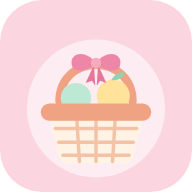
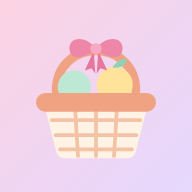
Cabezal centrado con más espacio arriba, nube solo ícono, íconos sin marco y sin teclado al agregar
- Más margen superior en la barra y contenido centrado con el logo más grande
- Botón de lista compartida solo con la nube y el punto de estado
- Logo del cabezal sin recuadro blanco; íconos de pantalla de inicio a sangre completa
- El teclado se cierra al agregar y ya no se abre solo con los toques rápidos
- Fecha que se acorta sola en pantallas angostas

Claude-Session: https://claude.ai/code/session_013ZPp3nXaXtcw42Knkq7VuM

diff --git a/index.html b/index.html
@@ -5,8 +5,8 @@
 <meta name="viewport" content="width=device-width, initial-scale=1, viewport-fit=cover">
 <title>Mi Canastita</title>
 <meta name="description" content="Lista de compras simple con íconos que cambian según el producto.">
-<meta name="theme-color" content="#FBD6E1" media="(prefers-color-scheme: light)">
-<meta name="theme-color" content="#4A2E3E" media="(prefers-color-scheme: dark)">
+<meta name="theme-color" content="#FFF7FA" media="(prefers-color-scheme: light)">
+<meta name="theme-color" content="#1E151C" media="(prefers-color-scheme: dark)">
 <link rel="manifest" href="manifest.webmanifest">
 <link rel="icon" href="icons/favicon.svg" type="image/svg+xml">
 <link rel="apple-touch-icon" href="icons/apple-touch-icon.png">
@@ -117,18 +117,19 @@ svg{display:block}
 /* ---------- Barra superior ---------- */
 .bar{position:sticky;top:env(safe-area-inset-top,0px);z-index:15;background:var(--glass-bar);
   -webkit-backdrop-filter:blur(16px) saturate(1.3);backdrop-filter:blur(16px) saturate(1.3);
-  border-bottom:1px solid var(--glass-line);padding-block:10px;
+  border-bottom:1px solid var(--glass-line);padding-block:20px 14px;
   padding-left:max(16px,env(safe-area-inset-left,0px));padding-right:max(16px,env(safe-area-inset-right,0px))}
-.bar-in{max-width:528px;margin:0 auto;display:flex;align-items:center;gap:10px}
-.logo{width:44px;height:44px;flex:none;border-radius:15px;background:var(--surface);box-shadow:var(--shadow-sm);padding:4px}
-.brand{flex:1;min-width:0}
-.brand h1{margin:0;font-family:var(--f-display);font-weight:600;font-size:1.32rem;line-height:1.05;letter-spacing:-.2px;white-space:nowrap}
-.brand p{margin:2px 0 0;color:var(--muted);font-weight:700;font-size:.8rem;white-space:nowrap;overflow:hidden;text-overflow:ellipsis}
-.chipbtn{flex:none;display:inline-flex;align-items:center;gap:6px;border:1px solid var(--line);background:var(--surface);color:var(--ink);
-  border-radius:999px;padding:7px 12px 7px 10px;font-weight:800;font-size:.8rem;box-shadow:var(--shadow-sm);transition:transform .15s}
-.chipbtn:active{transform:scale(.95)}
-.chipbtn svg{width:17px;height:17px;color:var(--accent-strong)}
-.sync i{width:8px;height:8px;border-radius:50%;background:var(--muted);flex:none}
+.bar-in{max-width:528px;margin:0 auto;display:grid;grid-template-columns:48px minmax(0,1fr) 48px;align-items:center;gap:8px}
+.brandbox{min-width:0;display:flex;align-items:center;justify-content:center;gap:10px}
+.logo{width:60px;height:60px;flex:none;filter:drop-shadow(0 6px 10px rgba(179,70,110,.18))}
+.brand{min-width:0}
+.brand h1{margin:0;font-family:var(--f-display);font-weight:600;font-size:clamp(1.25rem,5.6vw,1.5rem);line-height:1.05;letter-spacing:-.2px;white-space:nowrap}
+.brand p{margin:3px 0 0;color:var(--muted);font-weight:700;font-size:.84rem;white-space:nowrap;overflow:hidden;text-overflow:ellipsis}
+.iconbtn{position:relative;width:48px;height:48px;display:grid;place-items:center;border:1px solid var(--line);background:var(--surface);color:var(--accent-strong);
+  border-radius:16px;box-shadow:var(--shadow-sm);transition:transform .15s;padding:0}
+.iconbtn:active{transform:scale(.92)}
+.iconbtn svg{width:24px;height:24px}
+.sync i{position:absolute;top:9px;right:8px;width:11px;height:11px;border-radius:50%;background:var(--muted);border:2px solid var(--surface)}
 .sync[data-s="ok"] i{background:var(--ok)}
 .sync[data-s="busy"] i{background:var(--warn);animation:pulso 1s ease-in-out infinite}
 .sync[data-s="off"] i,.sync[data-s="err"] i{background:var(--warn)}
@@ -293,7 +294,12 @@ svg{display:block}
 <div class="app">
 <header class="bar">
   <div class="bar-in">
-    <svg class="logo" viewBox="0 0 512 512" aria-hidden="true">
+    <button class="iconbtn" id="instalar" type="button" hidden aria-label="Instalar app" title="Instalar app">
+      <svg viewBox="0 0 24 24" fill="none" stroke="currentColor" stroke-width="2.4" stroke-linecap="round" stroke-linejoin="round"><path d="M12 4v11M7 10l5 5 5-5M5 20h14"/></svg>
+    </button>
+    <span id="hueco" aria-hidden="true"></span>
+    <div class="brandbox">
+    <svg class="logo" viewBox="88 104 336 346" aria-hidden="true">
       <path d="M150 262 C150 120 362 120 362 262" fill="none" stroke="#EFA383" stroke-width="24" stroke-linecap="round"/>
       <circle cx="198" cy="252" r="44" fill="#BDE8D4"/>
       <circle cx="306" cy="246" r="48" fill="#FFE39A"/>
@@ -315,12 +321,10 @@ svg{display:block}
       <h1>Mi Canastita</h1>
       <p id="fecha">Lista de compras</p>
     </div>
-    <button class="chipbtn" id="instalar" type="button" hidden>
-      <svg viewBox="0 0 24 24" fill="none" stroke="currentColor" stroke-width="2.4" stroke-linecap="round" stroke-linejoin="round"><path d="M12 4v11M7 10l5 5 5-5M5 20h14"/></svg>Instalar
-    </button>
-    <button class="chipbtn sync" id="syncBtn" type="button" data-s="none" aria-label="Lista compartida">
+    </div>
+    <button class="iconbtn sync" id="syncBtn" type="button" data-s="none" aria-label="Lista compartida: sincronizar" title="Lista compartida">
       <svg viewBox="0 0 24 24" fill="none" stroke="currentColor" stroke-width="2.2" stroke-linecap="round" stroke-linejoin="round"><path d="M7 18h10a4 4 0 0 0 .6-7.96A6 6 0 0 0 6.2 9.2 4.5 4.5 0 0 0 7 18z"/></svg>
-      <i></i><span id="syncTxt">Sincronizar</span>
+      <i></i><span class="sr" id="syncTxt">Sincronizar</span>
     </button>
   </div>
 </header>
@@ -689,7 +693,7 @@ svg{display:block}
       it = { id:uid(), name:nm, qty:QTYS[qtyIdx], unit:unidad, done:false, doneAt:0, at:Date.now(), del:false };
       marcar(it); state.items.push(it);
     }
-    cambio(); resetForm(); nombre.focus();
+    cambio(); resetForm(); nombre.blur();
   });
   $("cancelar").addEventListener("click", function(){ resetForm(); });
 
@@ -701,7 +705,7 @@ svg{display:block}
   }).join("");
   $("chips").addEventListener("click", function(ev){
     var b = ev.target.closest(".chip"); if (!b) return;
-    nombre.value = b.dataset.n; hint.hidden = true; pintarPreview(); nombre.focus();
+    nombre.value = b.dataset.n; hint.hidden = true; pintarPreview();
   });
 
   /* ===== Lista ===== */
@@ -771,7 +775,7 @@ svg{display:block}
       form.classList.add("editing"); $("addTxt").textContent = "Guardar cambios";
       $("formTitle").textContent = "Editando producto"; $("cancelar").hidden = false;
       pintarCantidad(); pintarUnidad(); pintarPreview();
-      form.scrollIntoView({ behavior:"smooth", block:"start" }); nombre.focus({ preventScroll:true });
+      form.scrollIntoView({ behavior:"smooth", block:"start" });
     }
   }
   $("pendientes").addEventListener("click", alClick);
@@ -822,13 +826,22 @@ svg{display:block}
   });
 
   /* Fecha de hoy bajo el título */
-  try {
-    var f = new Date().toLocaleDateString("es-PE", { weekday:"long", day:"numeric", month:"long" });
-    $("fecha").textContent = f.charAt(0).toUpperCase() + f.slice(1);
-  } catch(e) {}
+  function pintarFecha(){
+    try {
+      var el = $("fecha"), hoy = new Date();
+      var formatos = [{ weekday:"long", day:"numeric", month:"long" }, { weekday:"short", day:"numeric", month:"long" }, { weekday:"short", day:"numeric", month:"short" }];
+      for (var i = 0; i < formatos.length; i++){
+        var f = hoy.toLocaleDateString("es-PE", formatos[i]);
+        el.textContent = f.charAt(0).toUpperCase() + f.slice(1);
+        if (el.scrollWidth <= el.clientWidth + 1) break;
+      }
+    } catch(e) {}
+  }
+  pintarFecha();
+  window.addEventListener("resize", pintarFecha);
 
   $("limpiarEjemplos").addEventListener("click", function(){
-    state.items = []; state.examples = false; guardar(); render(); nombre.focus();
+    state.items = []; state.examples = false; guardar(); render();
   });
   $("quitarListos").addEventListener("click", function(){
     var hechos = vivos().filter(function(x){ return x.done; }), copia = JSON.stringify(hechos), n = hechos.length;
@@ -880,10 +893,10 @@ svg{display:block}
 
   /* Botón Instalar (cuando el navegador lo ofrece) */
   var promptInstalar = null;
-  window.addEventListener("beforeinstallprompt", function(e){ e.preventDefault(); promptInstalar = e; $("instalar").hidden = false; });
+  window.addEventListener("beforeinstallprompt", function(e){ e.preventDefault(); promptInstalar = e; $("instalar").hidden = false; $("hueco").hidden = true; });
   $("instalar").addEventListener("click", function(){
     if (!promptInstalar) return; promptInstalar.prompt();
-    promptInstalar.userChoice.finally(function(){ promptInstalar = null; $("instalar").hidden = true; });
+    promptInstalar.userChoice.finally(function(){ promptInstalar = null; $("instalar").hidden = true; $("hueco").hidden = false; });
   });
 
   /* ===== Sincronización con la nube (Supabase) =====
@@ -911,7 +924,11 @@ svg{display:block}
 
   var syncEstado = "none", syncando = false, otraVez = false, syncTimer = null;
   var ETIQ = { none:"Sincronizar", ok:"Sincronizada", busy:"Sincronizando", off:"Sin internet", err:"Sin conexión" };
-  function setEstado(s){ syncEstado = s; $("syncBtn").dataset.s = s; $("syncTxt").textContent = ETIQ[s]; pintarInfo(); }
+  function setEstado(s){
+    syncEstado = s; $("syncBtn").dataset.s = s; $("syncTxt").textContent = ETIQ[s];
+    $("syncBtn").setAttribute("aria-label", "Lista compartida: " + ETIQ[s]); $("syncBtn").title = "Lista compartida: " + ETIQ[s];
+    pintarInfo();
+  }
   function pintarInfo(){
     if (!state.sync) return;
     var t;

diff --git a/fuente/app.html b/fuente/app.html
@@ -102,18 +102,19 @@ svg{display:block}
 /* ---------- Barra superior ---------- */
 .bar{position:sticky;top:env(safe-area-inset-top,0px);z-index:15;background:var(--glass-bar);
   -webkit-backdrop-filter:blur(16px) saturate(1.3);backdrop-filter:blur(16px) saturate(1.3);
-  border-bottom:1px solid var(--glass-line);padding-block:10px;
+  border-bottom:1px solid var(--glass-line);padding-block:20px 14px;
   padding-left:max(16px,env(safe-area-inset-left,0px));padding-right:max(16px,env(safe-area-inset-right,0px))}
-.bar-in{max-width:528px;margin:0 auto;display:flex;align-items:center;gap:10px}
-.logo{width:44px;height:44px;flex:none;border-radius:15px;background:var(--surface);box-shadow:var(--shadow-sm);padding:4px}
-.brand{flex:1;min-width:0}
-.brand h1{margin:0;font-family:var(--f-display);font-weight:600;font-size:1.32rem;line-height:1.05;letter-spacing:-.2px;white-space:nowrap}
-.brand p{margin:2px 0 0;color:var(--muted);font-weight:700;font-size:.8rem;white-space:nowrap;overflow:hidden;text-overflow:ellipsis}
-.chipbtn{flex:none;display:inline-flex;align-items:center;gap:6px;border:1px solid var(--line);background:var(--surface);color:var(--ink);
-  border-radius:999px;padding:7px 12px 7px 10px;font-weight:800;font-size:.8rem;box-shadow:var(--shadow-sm);transition:transform .15s}
-.chipbtn:active{transform:scale(.95)}
-.chipbtn svg{width:17px;height:17px;color:var(--accent-strong)}
-.sync i{width:8px;height:8px;border-radius:50%;background:var(--muted);flex:none}
+.bar-in{max-width:528px;margin:0 auto;display:grid;grid-template-columns:48px minmax(0,1fr) 48px;align-items:center;gap:8px}
+.brandbox{min-width:0;display:flex;align-items:center;justify-content:center;gap:10px}
+.logo{width:60px;height:60px;flex:none;filter:drop-shadow(0 6px 10px rgba(179,70,110,.18))}
+.brand{min-width:0}
+.brand h1{margin:0;font-family:var(--f-display);font-weight:600;font-size:clamp(1.25rem,5.6vw,1.5rem);line-height:1.05;letter-spacing:-.2px;white-space:nowrap}
+.brand p{margin:3px 0 0;color:var(--muted);font-weight:700;font-size:.84rem;white-space:nowrap;overflow:hidden;text-overflow:ellipsis}
+.iconbtn{position:relative;width:48px;height:48px;display:grid;place-items:center;border:1px solid var(--line);background:var(--surface);color:var(--accent-strong);
+  border-radius:16px;box-shadow:var(--shadow-sm);transition:transform .15s;padding:0}
+.iconbtn:active{transform:scale(.92)}
+.iconbtn svg{width:24px;height:24px}
+.sync i{position:absolute;top:9px;right:8px;width:11px;height:11px;border-radius:50%;background:var(--muted);border:2px solid var(--surface)}
 .sync[data-s="ok"] i{background:var(--ok)}
 .sync[data-s="busy"] i{background:var(--warn);animation:pulso 1s ease-in-out infinite}
 .sync[data-s="off"] i,.sync[data-s="err"] i{background:var(--warn)}
@@ -275,7 +276,12 @@ svg{display:block}
 <div class="app">
 <header class="bar">
   <div class="bar-in">
-    <svg class="logo" viewBox="0 0 512 512" aria-hidden="true">
+    <button class="iconbtn" id="instalar" type="button" hidden aria-label="Instalar app" title="Instalar app">
+      <svg viewBox="0 0 24 24" fill="none" stroke="currentColor" stroke-width="2.4" stroke-linecap="round" stroke-linejoin="round"><path d="M12 4v11M7 10l5 5 5-5M5 20h14"/></svg>
+    </button>
+    <span id="hueco" aria-hidden="true"></span>
+    <div class="brandbox">
+    <svg class="logo" viewBox="88 104 336 346" aria-hidden="true">
       <path d="M150 262 C150 120 362 120 362 262" fill="none" stroke="#EFA383" stroke-width="24" stroke-linecap="round"/>
       <circle cx="198" cy="252" r="44" fill="#BDE8D4"/>
       <circle cx="306" cy="246" r="48" fill="#FFE39A"/>
@@ -297,12 +303,10 @@ svg{display:block}
       <h1>Mi Canastita</h1>
       <p id="fecha">Lista de compras</p>
     </div>
-    <button class="chipbtn" id="instalar" type="button" hidden>
-      <svg viewBox="0 0 24 24" fill="none" stroke="currentColor" stroke-width="2.4" stroke-linecap="round" stroke-linejoin="round"><path d="M12 4v11M7 10l5 5 5-5M5 20h14"/></svg>Instalar
-    </button>
-    <button class="chipbtn sync" id="syncBtn" type="button" data-s="none" aria-label="Lista compartida">
+    </div>
+    <button class="iconbtn sync" id="syncBtn" type="button" data-s="none" aria-label="Lista compartida: sincronizar" title="Lista compartida">
       <svg viewBox="0 0 24 24" fill="none" stroke="currentColor" stroke-width="2.2" stroke-linecap="round" stroke-linejoin="round"><path d="M7 18h10a4 4 0 0 0 .6-7.96A6 6 0 0 0 6.2 9.2 4.5 4.5 0 0 0 7 18z"/></svg>
-      <i></i><span id="syncTxt">Sincronizar</span>
+      <i></i><span class="sr" id="syncTxt">Sincronizar</span>
     </button>
   </div>
 </header>
@@ -671,7 +675,7 @@ svg{display:block}
       it = { id:uid(), name:nm, qty:QTYS[qtyIdx], unit:unidad, done:false, doneAt:0, at:Date.now(), del:false };
       marcar(it); state.items.push(it);
     }
-    cambio(); resetForm(); nombre.focus();
+    cambio(); resetForm(); nombre.blur();
   });
   $("cancelar").addEventListener("click", function(){ resetForm(); });
 
@@ -683,7 +687,7 @@ svg{display:block}
   }).join("");
   $("chips").addEventListener("click", function(ev){
     var b = ev.target.closest(".chip"); if (!b) return;
-    nombre.value = b.dataset.n; hint.hidden = true; pintarPreview(); nombre.focus();
+    nombre.value = b.dataset.n; hint.hidden = true; pintarPreview();
   });
 
   /* ===== Lista ===== */
@@ -753,7 +757,7 @@ svg{display:block}
       form.classList.add("editing"); $("addTxt").textContent = "Guardar cambios";
       $("formTitle").textContent = "Editando producto"; $("cancelar").hidden = false;
       pintarCantidad(); pintarUnidad(); pintarPreview();
-      form.scrollIntoView({ behavior:"smooth", block:"start" }); nombre.focus({ preventScroll:true });
+      form.scrollIntoView({ behavior:"smooth", block:"start" });
     }
   }
   $("pendientes").addEventListener("click", alClick);
@@ -804,13 +808,22 @@ svg{display:block}
   });
 
   /* Fecha de hoy bajo el título */
-  try {
-    var f = new Date().toLocaleDateString("es-PE", { weekday:"long", day:"numeric", month:"long" });
-    $("fecha").textContent = f.charAt(0).toUpperCase() + f.slice(1);
-  } catch(e) {}
+  function pintarFecha(){
+    try {
+      var el = $("fecha"), hoy = new Date();
+      var formatos = [{ weekday:"long", day:"numeric", month:"long" }, { weekday:"short", day:"numeric", month:"long" }, { weekday:"short", day:"numeric", month:"short" }];
+      for (var i = 0; i < formatos.length; i++){
+        var f = hoy.toLocaleDateString("es-PE", formatos[i]);
+        el.textContent = f.charAt(0).toUpperCase() + f.slice(1);
+        if (el.scrollWidth <= el.clientWidth + 1) break;
+      }
+    } catch(e) {}
+  }
+  pintarFecha();
+  window.addEventListener("resize", pintarFecha);
 
   $("limpiarEjemplos").addEventListener("click", function(){
-    state.items = []; state.examples = false; guardar(); render(); nombre.focus();
+    state.items = []; state.examples = false; guardar(); render();
   });
   $("quitarListos").addEventListener("click", function(){
     var hechos = vivos().filter(function(x){ return x.done; }), copia = JSON.stringify(hechos), n = hechos.length;
@@ -862,10 +875,10 @@ svg{display:block}
 
   /* Botón Instalar (cuando el navegador lo ofrece) */
   var promptInstalar = null;
-  window.addEventListener("beforeinstallprompt", function(e){ e.preventDefault(); promptInstalar = e; $("instalar").hidden = false; });
+  window.addEventListener("beforeinstallprompt", function(e){ e.preventDefault(); promptInstalar = e; $("instalar").hidden = false; $("hueco").hidden = true; });
   $("instalar").addEventListener("click", function(){
     if (!promptInstalar) return; promptInstalar.prompt();
-    promptInstalar.userChoice.finally(function(){ promptInstalar = null; $("instalar").hidden = true; });
+    promptInstalar.userChoice.finally(function(){ promptInstalar = null; $("instalar").hidden = true; $("hueco").hidden = false; });
   });
 
   /* ===== Sincronización con la nube (Supabase) =====
@@ -893,7 +906,11 @@ svg{display:block}
 
   var syncEstado = "none", syncando = false, otraVez = false, syncTimer = null;
   var ETIQ = { none:"Sincronizar", ok:"Sincronizada", busy:"Sincronizando", off:"Sin internet", err:"Sin conexión" };
-  function setEstado(s){ syncEstado = s; $("syncBtn").dataset.s = s; $("syncTxt").textContent = ETIQ[s]; pintarInfo(); }
+  function setEstado(s){
+    syncEstado = s; $("syncBtn").dataset.s = s; $("syncTxt").textContent = ETIQ[s];
+    $("syncBtn").setAttribute("aria-label", "Lista compartida: " + ETIQ[s]); $("syncBtn").title = "Lista compartida: " + ETIQ[s];
+    pintarInfo();
+  }
   function pintarInfo(){
     if (!state.sync) return;
     var t;

diff --git a/sw.js b/sw.js
@@ -1,5 +1,5 @@
 // Service worker de Mi Canastita: guarda la app para que abra sin internet
-const CACHE = 'canastita-v3';
+const CACHE = 'canastita-v4';
 const APP = ['./', './index.html', './manifest.webmanifest', './icons/icon-192.png',
              './icons/icon-512.png', './icons/apple-touch-icon.png', './icons/favicon.svg'];
 

diff --git a/fuente/build.py b/fuente/build.py
@@ -24,22 +24,24 @@ BASKET = """
 <circle r="15" fill="#F7A9C2"/>
 </g>"""
 
-def icon_svg(scale=1.0, rounded=True):
-    bg = '<rect width="512" height="512" rx="112" fill="#FBD6E1"/>' if rounded else '<rect width="512" height="512" fill="#FBD6E1"/>'
-    dots = '<circle cx="256" cy="282" r="200" fill="#FFFFFF" opacity=".55"/>'
-    t = f'translate({256*(1-scale)} {256*(1-scale)+10*scale}) scale({scale})'
-    return f'<svg xmlns="http://www.w3.org/2000/svg" viewBox="0 0 512 512">{bg}<g transform="{t}">{dots}{BASKET}</g></svg>'
+def icon_svg(scale=1.0, rounded=False):
+    """Fondo pastel a sangre completa (el celular le pone su propia forma) y la canastita sola, sin marco."""
+    grad = ('<defs><linearGradient id="g" x1="0" y1="0" x2="1" y2="1">'
+            '<stop offset="0" stop-color="#FCD3E2"/><stop offset="1" stop-color="#E6D8FF"/></linearGradient></defs>')
+    bg = f'<rect width="512" height="512" rx="{112 if rounded else 0}" fill="url(#g)"/>'
+    t = f'translate({256*(1-scale)} {256*(1-scale)-20*scale}) scale({scale})'
+    return f'<svg xmlns="http://www.w3.org/2000/svg" viewBox="0 0 512 512">{grad}{bg}<g transform="{t}">{BASKET}</g></svg>'
 
-(OUT / "icons" / "favicon.svg").write_text(icon_svg(0.92))
+(OUT / "icons" / "favicon.svg").write_text(icon_svg(1.0, rounded=True))
 
 with sync_playwright() as p:
     b = p.chromium.launch()
     pg = b.new_page()
     for name, size, svg in [
-        ("icon-192.png", 192, icon_svg(0.92)),
-        ("icon-512.png", 512, icon_svg(0.92)),
-        ("apple-touch-icon.png", 180, icon_svg(0.86, rounded=False)),
-        ("maskable-512.png", 512, icon_svg(0.70, rounded=False)),
+        ("icon-192.png", 192, icon_svg(1.0)),
+        ("icon-512.png", 512, icon_svg(1.0)),
+        ("apple-touch-icon.png", 180, icon_svg(0.96)),
+        ("maskable-512.png", 512, icon_svg(0.80)),
     ]:
         pg.set_viewport_size({"width": size, "height": size})
         pg.set_content(f'<html><body style="margin:0;background:transparent">'
@@ -56,8 +58,8 @@ manifest = {
     "scope": "./",
     "display": "standalone",
     "orientation": "portrait",
-    "background_color": "#FFF6F8",
-    "theme_color": "#FBD6E1",
+    "background_color": "#FFF7FA",
+    "theme_color": "#FFF7FA",
     "icons": [
         {"src": "icons/icon-192.png", "sizes": "192x192", "type": "image/png"},
         {"src": "icons/icon-512.png", "sizes": "512x512", "type": "image/png"},
@@ -67,7 +69,7 @@ manifest = {
 (OUT / "manifest.webmanifest").write_text(json.dumps(manifest, ensure_ascii=False, indent=2))
 
 SW = """// Service worker de Mi Canastita: guarda la app para que abra sin internet
-const CACHE = 'canastita-v3';
+const CACHE = 'canastita-v4';
 const APP = ['./', './index.html', './manifest.webmanifest', './icons/icon-192.png',
              './icons/icon-512.png', './icons/apple-touch-icon.png', './icons/favicon.svg'];
 
@@ -110,8 +112,8 @@ HEAD = """<!doctype html>
 <meta name="viewport" content="width=device-width, initial-scale=1, viewport-fit=cover">
 <title>Mi Canastita</title>
 <meta name="description" content="Lista de compras simple con íconos que cambian según el producto.">
-<meta name="theme-color" content="#FBD6E1" media="(prefers-color-scheme: light)">
-<meta name="theme-color" content="#4A2E3E" media="(prefers-color-scheme: dark)">
+<meta name="theme-color" content="#FFF7FA" media="(prefers-color-scheme: light)">
+<meta name="theme-color" content="#1E151C" media="(prefers-color-scheme: dark)">
 <link rel="manifest" href="manifest.webmanifest">
 <link rel="icon" href="icons/favicon.svg" type="image/svg+xml">
 <link rel="apple-touch-icon" href="icons/apple-touch-icon.png">
